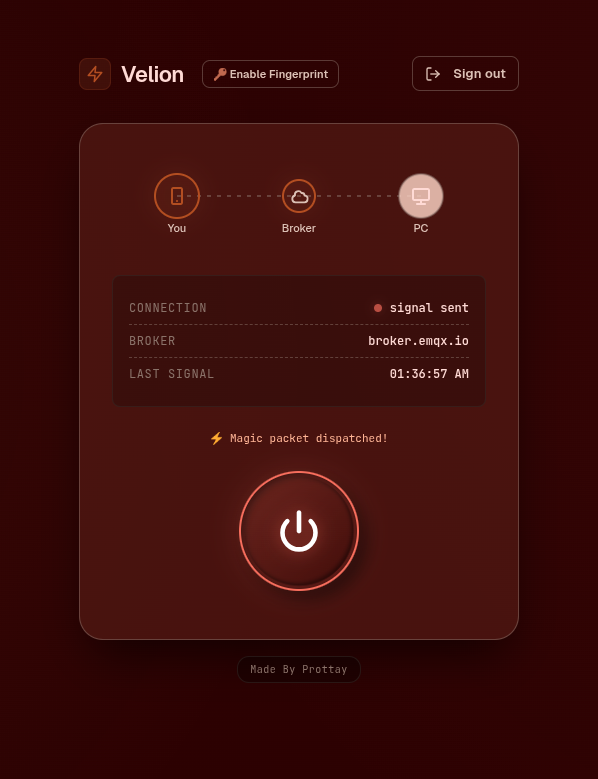
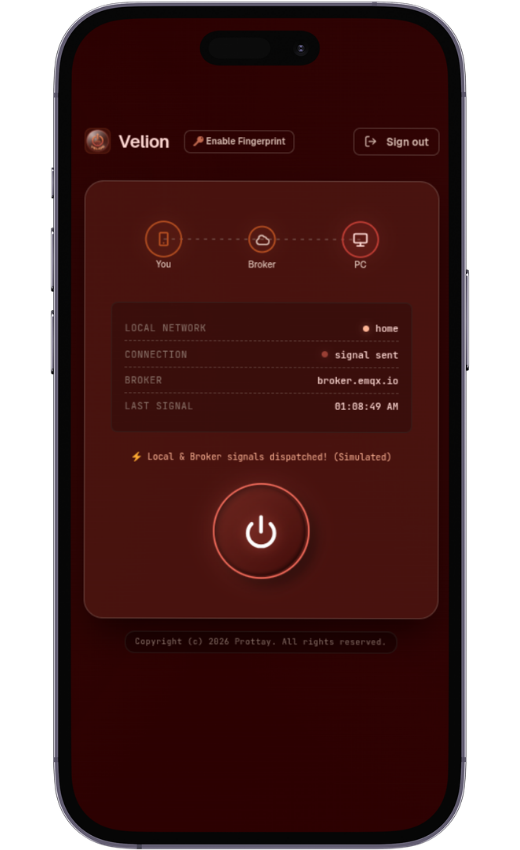
New feature: Works on local network.

diff --git a/README.md b/README.md
@@ -1,74 +1,99 @@
-# Velion · Secure Wake-on-LAN Ecosystem
+# Velion · Hybrid Remote Control Ecosystem
 
 <p align="center">
   <img src="./assets/icon.png" width="128" height="128" alt="Velion Logo">
 </p>
 
-**Velion** is a modern, cross-platform remote control system designed to wake up computers via **Wake-on-LAN (WoL)** using an ESP32 microcontroller and MQTT. It features a sleek, security-hardened Web dashboard and a native Android application.
+<p align="center">
+  <img src="https://img.shields.io/badge/Architecture-Hybrid_Local_%26_Remote-E77B49?style=for-the-badge" alt="Hybrid Architecture">
+  <img src="https://img.shields.io/badge/Security-Hardened-F76E5D?style=for-the-badge" alt="Security Hardened">
+  <img src="https://img.shields.io/badge/Biometrics-FIDO2_/_Fingerprint-280001?style=for-the-badge" alt="Biometrics">
+</p>
 
-[**Live Demo (Web)**](https://velion-demo.vercel.app) • [**Download Android APK**](https://github.com/SilverCipherr/Velion/releases/download/1.0.0/Velion-demo.apk)
----
+<p align="center">
+  <b>Velion</b> is a high-performance, cross-platform ecosystem engineered to provide absolute control over PC power states. By merging <b>Local Network UDP broadcasting</b> with <b>Global MQTT signaling</b>, Velion offers a zero-compromise solution for waking computers securely from anywhere in the world.
+</p>
 
-## 🚀 The Architecture
-
-The system is designed for low latency and high reliability, following a "Signal Path" architecture:
-
-1.  **Client (Web/Android)**: User authenticates via password or Biometrics.
-2.  **Broker (MQTT)**: A secure message is published to a unique, private topic.
-3.  **Controller (ESP32)**: The microcontroller, subscribed to the topic, receives the command.
-4.  **Target (PC)**: The ESP32 broadcasts a UDP Magic Packet within the local network to wake the PC.
-
-## ✨ Key Features
-
-### 🔐 Security First
-*   **SHA-256 Hashing**: Passwords are never stored or transmitted in plain text.
-*   **Biometric Authentication**: Seamless login using **Fingerprint/FaceID** via the WebAuthn API (Web) and Android Biometric API.
-*   **Hardened Headers**: The Web dashboard is protected by a strict **Content Security Policy (CSP)** and security headers (HSTS, No-Sniff, XSS-Protection).
-*   **Lockout Mechanism**: Intelligent rate-limiting and temporary lockout after multiple failed attempts.
-
-### 🎨 Premium UI/UX
-*   **Responsive Design**: Built with modern CSS design tokens and a custom "Obsidian Heritage" dark theme.
-*   **Visual Feedback**: A real-time "Signal Path" visualization shows the packet traveling from your device, through the broker, to the PC.
-*   **PWA Ready**: Installable on iOS and Android with offline caching via Service Workers.
-*   **Native Experience**: The Android app is built with **Jetpack Compose** and **Material 3**, featuring smooth transitions and native biometric integration.
-
-### 🛠 Technical Stack
-| Platform | Technologies |
-| :--- | :--- |
-| **Web Dashboard** | JavaScript (ES6+), MQTT.js, Web Crypto API, WebAuthn, Service Workers, Vercel |
-| **Android App** | Kotlin, Jetpack Compose, Material 3, Coroutines, HiveMQ Client |
-| **Microcontroller** | C++ (Arduino/PlatformIO), ESP32, PubSubClient, WakeOnLan Library |
+<p align="center">
+  <a href="https://velion-demo.vercel.app"><b>Live Web Demo</b></a> • 
+  <a href="https://github.com/SilverCipherr/Velion/releases/download/v1.2.0/Velion-demo.v1.2.0.apk"><b>Android APK</b></a>
+</p>
 
 ---
 
-## 📸 Screenshots
+## ⚡ Hybrid Intelligence Architecture
 
-| Login Screen | Dashboard |
-| :---: | :---: |
-| <img src="./assets/screenshot_login.png" width="400"> | <img src="./assets/screenshot_dash.png" width="400"> |
+Velion doesn't just send a signal; it intelligently chooses the most efficient path based on your environment.
 
----
+### 🏠 Local-First Dispatch (Zero Latency)
+When the system detects you are on your <b>Home SSID</b>, the Android application switches to **Direct Mode**. It bypasses all cloud brokers and broadcasts a Raw UDP Magic Packet directly to the target PC's MAC address. This ensures instant wake-up even if your ESP32 controller is offline.
 
-## 🧪 Showcase Mode (Simulation)
+### 🌐 Remote MQTT Relay (Global Reach)
+When outside your local network, Velion utilizes a hardened MQTT bridge. The command is routed through an encrypted topic to your **ESP32 Controller**, which then fires the physical Magic Packet within your home network.
 
-This repository serves as a public showcase. To protect private infrastructure, the **Live Demo** and **Demo APK** operate in a simulated environment:
-*   **Authentication**: Use the password `admin` to log in.
-*   **MQTT Logic**: The connection and "Wake" commands are visually simulated with high-fidelity animations.
-*   **Privacy**: All unique identifiers, MAC addresses, and private MQTT topics have been removed.
+### 📊 Capability Matrix
 
----
-
-## 📄 License
-
-This project is proprietary. All rights reserved. See the [LICENSE](LICENSE) file for more details.
+| Scenario | ESP32 Status | Web UI Result | Android App Result |
+| :--- | :--- | :--- | :--- |
+| **You are at Home** | **OFF** | ❌ Cannot Wake | ✅ **Wakes PC (Direct UDP)** |
+| **You are Remote** | **OFF** | ❌ Cannot Wake | ❌ Cannot Wake |
+| **Anywhere** | **ON** | ✅ Wakes PC (via ESP32) | ✅ Wakes PC (via ESP32) |
 
 ---
 
-## 👨💻 Author
+## ✨ Core Pillars
 
-**SilverCipher**
+### 🔐 Uncompromising Security
+*   **Cryptographic Hashing**: Passwords are never stored in plain text, utilizing **SHA-256** hashing via the native Web Crypto API and Kotlin standard libraries.
+*   **Biometric Perimeter**: Experience zero-friction entry with **Android Biometric API** (Fingerprint/Face) and **WebAuthn (FIDO2)** for secure, password-less authentication on the web dashboard.
+*   **Rate-Limited Core**: An intelligent lockout mechanism provides edge-level protection against automated brute-force attempts.
+
+### 📡 Hybrid Connectivity
+*   **SSID Awareness**: Automatic network detection ensures you are always using the fastest available path.
+*   **UDP Broadcasting**: Direct hardware-level signaling for the Android native client.
+*   **Resilient Fallback**: Automatic failover to MQTT Broker if local communication is restricted.
+
+### 🎨 Elite UX Design
+*   **Obsidian Heritage Theme**: A custom dark aesthetic built for high-contrast legibility and professional appeal.
+*   **Signal Path Viz**: Real-time SVG animations visualize the data packet traveling from your device to the PC.
+*   **PWA Core**: The web dashboard is fully installable and features comprehensive offline caching via Service Workers.
+
+---
+
+## 🛠 Technical Deep-Dive
+
+| Layer | Component | Implementation |
+| :--- | :--- | :--- |
+| **Android** | <img src="https://img.shields.io/badge/Kotlin-7F52FF?logo=kotlin&logoColor=white" height="20"> | Jetpack Compose, Coroutines, Material 3, HiveMQ |
+| **Web** | <img src="https://img.shields.io/badge/JavaScript-F7DF1E?logo=javascript&logoColor=black" height="20"> | ES6+, MQTT.js, WebAuthn API, Vercel Edge |
+| **Hardware** | <img src="https://img.shields.io/badge/C++-00599C?logo=c%2B%2B&logoColor=white" height="20"> | ESP32, PubSubClient, UDP Multicast |
+| **Logic** | <img src="https://img.shields.io/badge/Protocol-Hybrid-E77B49" height="20"> | Raw UDP Magic Packets + MQTT WebSockets |
+
+---
+
+## 📸 System Interface
+
+<p align="center">
+  <img src="./assets/screenshot_login.png" width="450" alt="Login Interface" style="border-radius: 12px; margin-right: 20px; vertical-align: middle;">
+  <img src="./assets/screenshot_dash.png" width="380" alt="Dashboard Interface" style="border-radius: 12px; vertical-align: middle;">
+</p>
+
+---
+
+## 🧪 Simulation & Showcase
+
+To maintain the privacy of the production infrastructure, this public repository operates in **Showcase Mode**:
+*   **Environment**: Connection, biometric flows, and dispatch sequences are high-fidelity simulations.
+*   **Credentials**: Access the dashboard using the demo password: `admin`.
+*   **Privacy**: All private MAC addresses, IP ranges, and private MQTT topics have been sanitized.
+
+---
+
+## 📄 Licensing & Rights
+
+Copyright (c) 2026 Prottay. All rights reserved. This project is proprietary software.
 
 ---
 <p align="center">
-  <i>Velion - Effortless Control, Absolute Security.</i>
+  <i>Velion — Effortless Control. Absolute Security.</i>
 </p>
